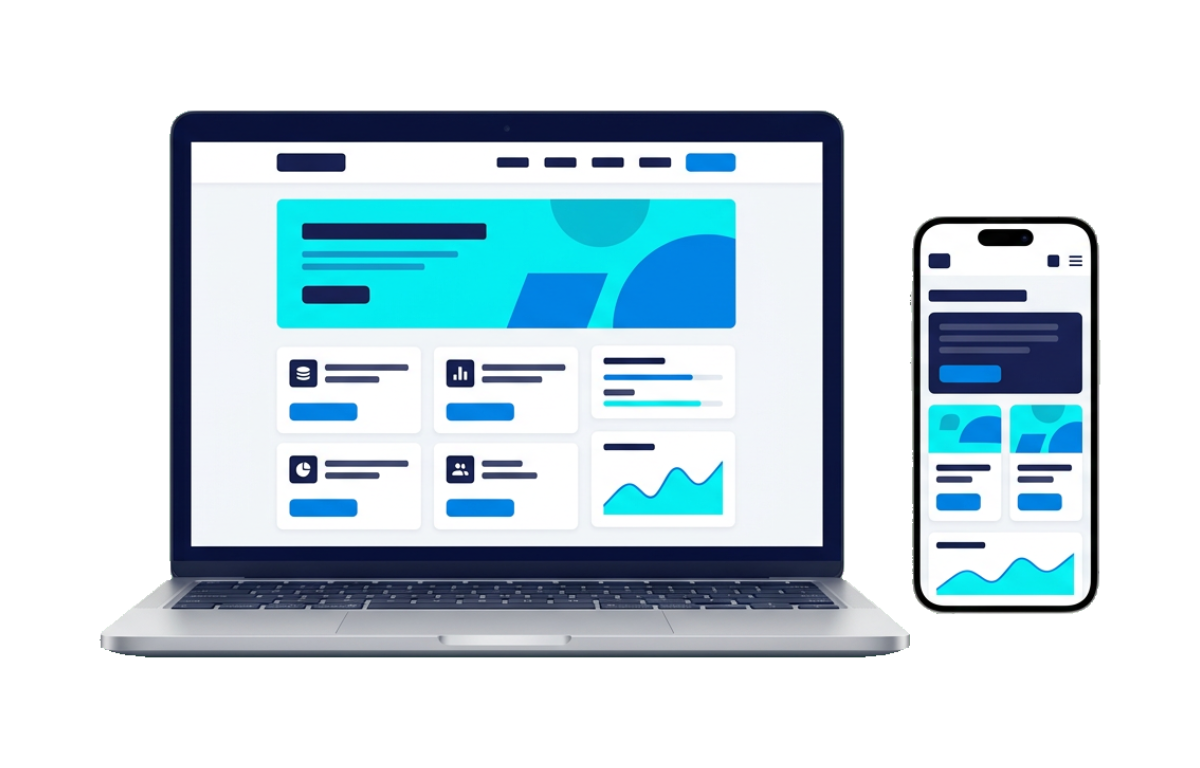
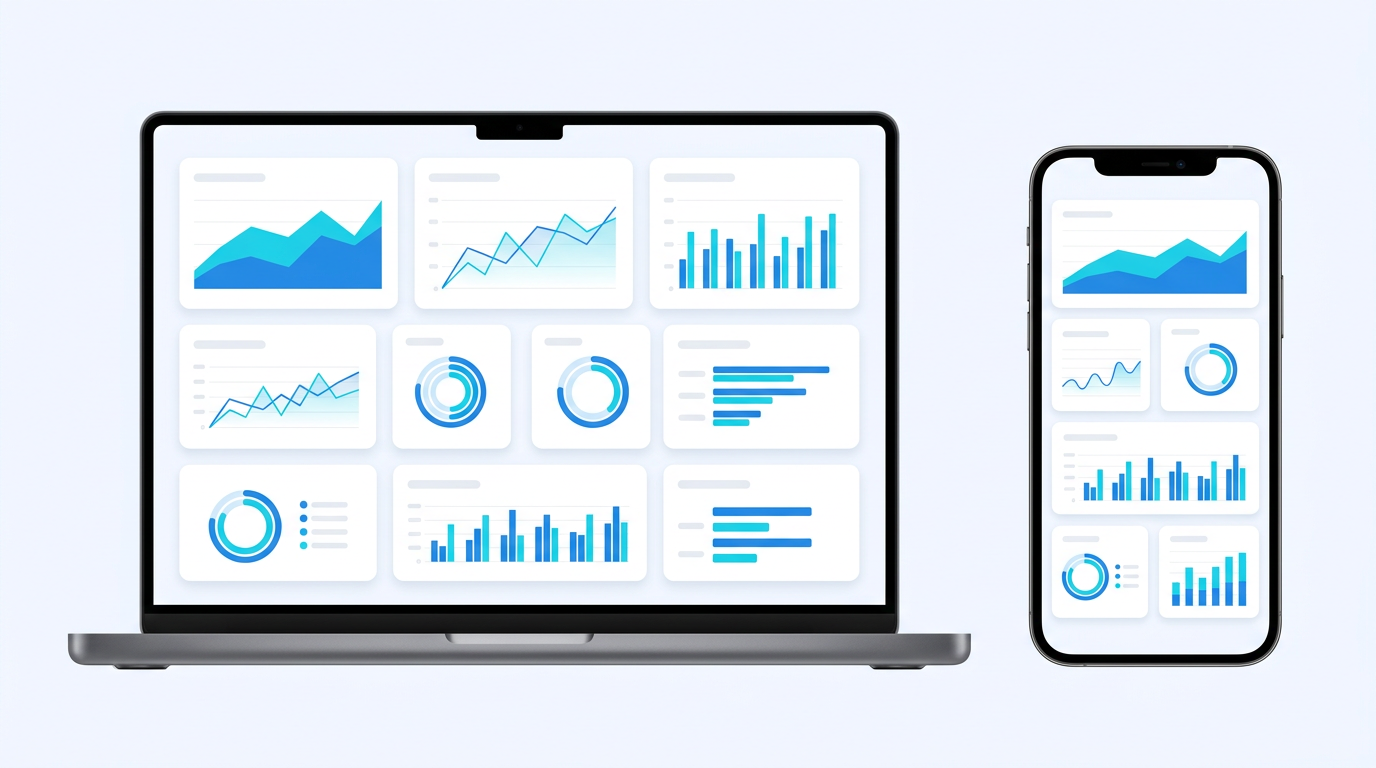
Refresh theme-aware hero artwork

diff --git a/app/hero-device-artwork.tsx b/app/hero-device-artwork.tsx
@@ -1,210 +1,25 @@
 import Image from 'next/image'
 
-type Palette = {
-  background: string
-  header: string
-  sidebar: string
-  card: string
-  border: string
-  ink: string
-  muted: string
-  accent: string
-  accentSoft: string
-  cyan: string
+type HeroDeviceArtworkProps = {
+  dark: boolean
+  rtl: boolean
 }
 
-const lightPalette: Palette = {
-  background: '#F6F8FC',
-  header: '#FFFFFF',
-  sidebar: '#F0F3F8',
-  card: '#FFFFFF',
-  border: '#E3E9F2',
-  ink: '#18233B',
-  muted: '#718099',
-  accent: '#176FE8',
-  accentSoft: '#E9F2FF',
-  cyan: '#00AFC1',
-}
-
-const darkPalette: Palette = {
-  background: '#0B1220',
-  header: '#111A2B',
-  sidebar: '#101A2C',
-  card: '#141F33',
-  border: '#28364D',
-  ink: '#F4F7FC',
-  muted: '#9AAAC1',
-  accent: '#2788F5',
-  accentSoft: '#172D49',
-  cyan: '#22D3DC',
-}
-
-function LaptopDashboard({ palette }: { palette: Palette }) {
-  const metrics = [
-    { label: 'Projects', value: '50+', detail: 'delivered' },
-    { label: 'Clients', value: '45', detail: 'served' },
-    { label: 'Experience', value: '6+', detail: 'years' },
-  ]
-  const chartPoints = [
-    { x: 150, y: 326, label: 'Websites' },
-    { x: 295, y: 283, label: 'Mobile' },
-    { x: 438, y: 302, label: 'UX / UI' },
-    { x: 585, y: 237, label: 'AI' },
-  ]
-
-  return (
-    <>
-      <rect width="640" height="410" fill={palette.background} />
-      <rect width="640" height="38" fill={palette.header} />
-      <circle cx="19" cy="19" r="7" fill={palette.accent} />
-      <path d="M16 19h6M19 16v6" stroke="#FFFFFF" strokeWidth="1.5" strokeLinecap="round" />
-      <text x="32" y="24" fill={palette.ink} fontFamily="Montserrat,Arial,sans-serif" fontSize="19" fontWeight="700">SperaCode</text>
-      <text x="151" y="23" fill={palette.muted} fontFamily="Montserrat,Arial,sans-serif" fontSize="8" fontWeight="600">OVERVIEW</text>
-      <rect x="526" y="9" width="101" height="20" rx="10" fill={palette.accentSoft} />
-      <circle cx="539" cy="19" r="3" fill={palette.cyan} />
-      <text x="547" y="22" fill={palette.accent} fontFamily="Montserrat,Arial,sans-serif" fontSize="7" fontWeight="700">SUPPORT 24/7</text>
-
-      <rect y="38" width="98" height="372" fill={palette.sidebar} />
-      <rect x="10" y="55" width="78" height="27" rx="6" fill={palette.accentSoft} />
-      <circle cx="22" cy="68" r="4" fill={palette.accent} />
-      <text x="31" y="71" fill={palette.accent} fontFamily="Montserrat,Arial,sans-serif" fontSize="7" fontWeight="700">Overview</text>
-      <circle cx="22" cy="104" r="4" fill={palette.muted} opacity=".65" />
-      <text x="31" y="107" fill={palette.muted} fontFamily="Montserrat,Arial,sans-serif" fontSize="7">Projects</text>
-      <circle cx="22" cy="132" r="4" fill={palette.muted} opacity=".65" />
-      <text x="31" y="135" fill={palette.muted} fontFamily="Montserrat,Arial,sans-serif" fontSize="7">Clients</text>
-      <circle cx="22" cy="160" r="4" fill={palette.muted} opacity=".65" />
-      <text x="31" y="163" fill={palette.muted} fontFamily="Montserrat,Arial,sans-serif" fontSize="7">Services</text>
-      <rect x="12" y="386" width="74" height="1" fill={palette.border} />
-      <text x="18" y="400" fill={palette.muted} fontFamily="Montserrat,Arial,sans-serif" fontSize="6">WEB · MOBILE · AI</text>
-
-      <text x="112" y="62" fill={palette.ink} fontFamily="Montserrat,Arial,sans-serif" fontSize="18" fontWeight="700">Company overview</text>
-      <text x="112" y="79" fill={palette.muted} fontFamily="Montserrat,Arial,sans-serif" fontSize="7">SperaCode digital products</text>
-      {metrics.map((metric, index) => {
-        const x = 112 + index * 168
-        return (
-          <g key={metric.label}>
-            <rect x={x} y="94" width="158" height="71" rx="8" fill={palette.card} stroke={palette.border} />
-            <text x={x + 12} y="111" fill={palette.muted} fontFamily="Montserrat,Arial,sans-serif" fontSize="7" fontWeight="600">{metric.label}</text>
-            <text x={x + 12} y="143" fill={palette.ink} fontFamily="Montserrat,Arial,sans-serif" fontSize="28" fontWeight="700">{metric.value}</text>
-            <text x={x + 63} y="142" fill={palette.muted} fontFamily="Montserrat,Arial,sans-serif" fontSize="7">{metric.detail}</text>
-            <rect x={x + 12} y="152" width="30" height="3" rx="1.5" fill={index === 1 ? palette.cyan : palette.accent} opacity=".8" />
-          </g>
-        )
-      })}
-      <rect x="108" y="176" width="516" height="216" rx="9" fill={palette.card} stroke={palette.border} />
-      <text x="124" y="198" fill={palette.ink} fontFamily="Montserrat,Arial,sans-serif" fontSize="11" fontWeight="700">SperaCode solutions</text>
-      <text x="124" y="212" fill={palette.muted} fontFamily="Montserrat,Arial,sans-serif" fontSize="7">Websites · mobile apps · product design</text>
-      <rect x="519" y="186" width="88" height="18" rx="9" fill={palette.accentSoft} />
-      <circle cx="531" cy="195" r="3" fill={palette.cyan} />
-      <text x="540" y="198" fill={palette.accent} fontFamily="Montserrat,Arial,sans-serif" fontSize="6.5" fontWeight="700">OUR EXPERTISE</text>
-      <line x1="132" y1="242" x2="607" y2="242" stroke={palette.border} strokeWidth="1" />
-      <line x1="132" y1="274" x2="607" y2="274" stroke={palette.border} strokeWidth="1" />
-      <line x1="132" y1="306" x2="607" y2="306" stroke={palette.border} strokeWidth="1" />
-      <line x1="132" y1="338" x2="607" y2="338" stroke={palette.border} strokeWidth="1" />
-      <path d="M150 326 C198 309 246 286 295 283 C345 279 389 309 438 302 C488 295 535 253 585 237" fill="none" stroke={palette.accent} strokeWidth="3" strokeLinecap="round" />
-      <path d="M150 326 C198 309 246 286 295 283 C345 279 389 309 438 302 C488 295 535 253 585 237 L585 338 L150 338 Z" fill={palette.accent} opacity=".08" />
-      {chartPoints.map((point, index) => (
-        <g key={point.label}>
-          <circle cx={point.x} cy={point.y} r="5" fill={palette.card} stroke={index === 1 ? palette.cyan : palette.accent} strokeWidth="2.5" />
-          <text x={point.x} y="359" textAnchor="middle" fill={palette.muted} fontFamily="Montserrat,Arial,sans-serif" fontSize="6.5">{point.label}</text>
-        </g>
-      ))}
-    </>
-  )
-}
-
-function MobileDashboard({ palette }: { palette: Palette }) {
-  return (
-    <>
-      <rect width="180" height="440" fill={palette.background} />
-      <rect x="61" y="7" width="58" height="15" rx="8" fill="#080D17" />
-      <circle cx="111" cy="14.5" r="2" fill="#273247" />
-      <circle cx="17" cy="39" r="7" fill={palette.accent} />
-      <path d="M14 39h6M17 36v6" stroke="#FFFFFF" strokeWidth="1.4" strokeLinecap="round" />
-      <text x="29" y="43" fill={palette.ink} fontFamily="Montserrat,Arial,sans-serif" fontSize="14" fontWeight="700">SperaCode</text>
-      <path d="M157 36h10M157 40h10M157 44h10" stroke={palette.muted} strokeWidth="1.5" strokeLinecap="round" />
-      <text x="14" y="70" fill={palette.ink} fontFamily="Montserrat,Arial,sans-serif" fontSize="11" fontWeight="700">Company overview</text>
-      <text x="14" y="83" fill={palette.muted} fontFamily="Montserrat,Arial,sans-serif" fontSize="6.5">A quick look at SperaCode</text>
-
-      <rect x="12" y="94" width="156" height="74" rx="9" fill={palette.card} stroke={palette.border} />
-      <text x="23" y="113" fill={palette.muted} fontFamily="Montserrat,Arial,sans-serif" fontSize="7" fontWeight="600">Projects delivered</text>
-      <text x="23" y="145" fill={palette.ink} fontFamily="Montserrat,Arial,sans-serif" fontSize="27" fontWeight="700">50+</text>
-      <rect x="110" y="128" width="45" height="24" rx="7" fill={palette.accentSoft} />
-      <path d="M119 144l8-8 6 5 11-10" fill="none" stroke={palette.accent} strokeWidth="2" strokeLinecap="round" strokeLinejoin="round" />
-
-      <rect x="12" y="178" width="74" height="68" rx="8" fill={palette.card} stroke={palette.border} />
-      <text x="21" y="196" fill={palette.muted} fontFamily="Montserrat,Arial,sans-serif" fontSize="6.5">Clients</text>
-      <text x="21" y="226" fill={palette.ink} fontFamily="Montserrat,Arial,sans-serif" fontSize="20" fontWeight="700">45</text>
-      <rect x="94" y="178" width="74" height="68" rx="8" fill={palette.card} stroke={palette.border} />
-      <text x="103" y="196" fill={palette.muted} fontFamily="Montserrat,Arial,sans-serif" fontSize="6.5">Experience</text>
-      <text x="103" y="226" fill={palette.ink} fontFamily="Montserrat,Arial,sans-serif" fontSize="20" fontWeight="700">6+</text>
-      <text x="21" y="237" fill={palette.muted} fontFamily="Montserrat,Arial,sans-serif" fontSize="5.5">served</text>
-      <text x="103" y="237" fill={palette.muted} fontFamily="Montserrat,Arial,sans-serif" fontSize="5.5">years</text>
-
-      <rect x="12" y="256" width="156" height="103" rx="8" fill={palette.card} stroke={palette.border} />
-      <text x="22" y="275" fill={palette.ink} fontFamily="Montserrat,Arial,sans-serif" fontSize="7.5" fontWeight="700">Our services</text>
-      <rect x="22" y="286" width="62" height="24" rx="6" fill={palette.accentSoft} />
-      <text x="30" y="301" fill={palette.accent} fontFamily="Montserrat,Arial,sans-serif" fontSize="6" fontWeight="600">Websites</text>
-      <rect x="90" y="286" width="66" height="24" rx="6" fill={palette.accentSoft} />
-      <text x="98" y="301" fill={palette.accent} fontFamily="Montserrat,Arial,sans-serif" fontSize="6" fontWeight="600">Mobile apps</text>
-      <rect x="22" y="318" width="62" height="24" rx="6" fill={palette.accentSoft} />
-      <text x="30" y="333" fill={palette.accent} fontFamily="Montserrat,Arial,sans-serif" fontSize="6" fontWeight="600">AI solutions</text>
-      <text x="98" y="333" fill={palette.muted} fontFamily="Montserrat,Arial,sans-serif" fontSize="6">UI / UX</text>
-
-      <rect x="12" y="369" width="156" height="48" rx="8" fill={palette.accentSoft} />
-      <circle cx="27" cy="393" r="5" fill={palette.cyan} />
-      <text x="39" y="389" fill={palette.ink} fontFamily="Montserrat,Arial,sans-serif" fontSize="7" fontWeight="600">Support</text>
-      <text x="39" y="403" fill={palette.muted} fontFamily="Montserrat,Arial,sans-serif" fontSize="6">Here when you need us</text>
-      <text x="151" y="398" textAnchor="end" fill={palette.accent} fontFamily="Montserrat,Arial,sans-serif" fontSize="10" fontWeight="700">24/7</text>
-      <rect x="67" y="430" width="46" height="3" rx="1.5" fill={palette.ink} opacity=".35" />
-    </>
-  )
-}
-
-export function HeroDeviceArtwork({ dark, rtl }: { dark: boolean; rtl: boolean }) {
-  const palette = dark ? darkPalette : lightPalette
-  const laptop = dark
-    ? { x: 158, y: 127, width: 655, height: 423 }
-    : { x: 190, y: 142, width: 633, height: 405 }
-  const phone = dark
-    ? { x: 902, y: 151, width: 181, height: 456 }
-    : { x: 928, y: 224, width: 166, height: 382 }
-  const laptopClip = dark ? 'speracode-laptop-dark' : 'speracode-laptop-light'
-  const phoneClip = dark ? 'speracode-phone-dark' : 'speracode-phone-light'
-
+export function HeroDeviceArtwork({ dark, rtl }: HeroDeviceArtworkProps) {
   return (
     <div className="hero-device-stage">
       <Image
         src={dark ? '/hero-devices-dark.png' : '/hero-devices-light.png'}
         alt={rtl
-          ? 'لابتوب وموبايل يعرضان لوحة بيانات SperaCode: أكثر من 50 مشروعًا و45 عميلًا و6 سنوات خبرة'
-          : 'Laptop and phone showing SperaCode metrics: 50+ projects, 45 clients, and 6+ years of experience'}
-        width={1200}
+          ? 'تصميم توضيحي لحاسوب محمول وهاتف يعرضان لوحة تحكم رقمية'
+          : 'Illustration of a laptop and phone displaying a digital dashboard'}
+        width={1376}
         height={768}
         sizes="(max-width: 760px) 340px, 500px"
+        quality={90}
         priority
         className="hero-image"
       />
-      <svg className="hero-screen-overlay" viewBox="0 0 1200 768" aria-hidden="true" focusable="false">
-        <defs>
-          <clipPath id={laptopClip} clipPathUnits="userSpaceOnUse">
-            <rect x={laptop.x} y={laptop.y} width={laptop.width} height={laptop.height} rx="5" />
-          </clipPath>
-          <clipPath id={phoneClip} clipPathUnits="userSpaceOnUse">
-            <rect x={phone.x} y={phone.y} width={phone.width} height={phone.height} rx="19" />
-          </clipPath>
-        </defs>
-        <g clipPath={`url(#${laptopClip})`}>
-          <g transform={`translate(${laptop.x} ${laptop.y}) scale(${laptop.width / 640} ${laptop.height / 410})`}>
-            <LaptopDashboard palette={palette} />
-          </g>
-        </g>
-        <g clipPath={`url(#${phoneClip})`}>
-          <g transform={`translate(${phone.x} ${phone.y}) scale(${phone.width / 180} ${phone.height / 440})`}>
-            <MobileDashboard palette={palette} />
-          </g>
-        </g>
-      </svg>
     </div>
   )
 }

diff --git a/app/projects/projects-gallery.tsx b/app/projects/projects-gallery.tsx
@@ -20,6 +20,7 @@ export default function ProjectsGallery() {
     const saved = localStorage.getItem('speracode-theme')
     const isDark = saved ? saved === 'dark' : window.matchMedia('(prefers-color-scheme: dark)').matches
     setDark(isDark)
+    document.documentElement.classList.toggle('dark', isDark)
     const onScroll = () => setScrolled(window.scrollY > 16)
     window.addEventListener('scroll', onScroll, { passive: true })
     const observer = new IntersectionObserver((entries) => entries.forEach((entry) => {
@@ -36,9 +37,9 @@ export default function ProjectsGallery() {
   }
 
   return <div className={`site projects-page ${dark ? 'theme-dark' : ''}`} dir="rtl">
-    <header className={`navbar${scrolled ? ' scrolled' : ''}`}><div className="container nav-inner"><SperaLogo/><nav className="desktop-nav" aria-label="التنقل الرئيسي"><Link href="/#home">الرئيسية</Link><Link href="/#services">خدماتنا</Link><Link href="/projects" aria-current="page">أعمالنا</Link><Link href="/#about">من نحن</Link><Link href="/contact">اتصل بنا</Link></nav><div className="nav-actions"><button className="icon-button" onClick={toggleTheme} aria-label={dark ? 'تفعيل الوضع الفاتح' : 'تفعيل الوضع الداكن'}>{dark ? <Sun/> : <Moon/>}</button><Link className="button button-primary nav-cta" href="/contact">ابدأ مشروعك<ArrowUpRight/></Link><button className="icon-button projects-menu-toggle" onClick={() => setMenuOpen(!menuOpen)} aria-label={menuOpen ? 'إغلاق القائمة' : 'فتح القائمة'}>{menuOpen ? <X/> : <Menu/>}</button></div></div>{menuOpen && <nav className="mobile-nav projects-mobile-nav"><Link onClick={() => setMenuOpen(false)} href="/">الرئيسية<ArrowUpRight/></Link><Link onClick={() => setMenuOpen(false)} href="/#services">خدماتنا<ArrowUpRight/></Link><Link onClick={() => setMenuOpen(false)} href="/projects">أعمالنا<ArrowUpRight/></Link><Link onClick={() => setMenuOpen(false)} href="/#about">من نحن<ArrowUpRight/></Link><Link onClick={() => setMenuOpen(false)} href="/contact">اتصل بنا<ArrowUpRight/></Link></nav>}</header>
+    <header className={`navbar${scrolled ? ' scrolled' : ''}`}><div className="container nav-inner"><SperaLogo/><nav className="desktop-nav" aria-label="التنقل الرئيسي"><Link href="/#home">الرئيسية</Link><Link href="/#services">خدماتنا</Link><Link href="/projects" aria-current="page">أعمالنا</Link><Link href="/#about">من نحن</Link><Link href="/contact">اتصل بنا</Link></nav><div className="nav-actions"><button type="button" className="icon-button" onClick={toggleTheme} aria-label={dark ? 'تفعيل الوضع الفاتح' : 'تفعيل الوضع الداكن'} aria-pressed={dark}>{dark ? <Sun/> : <Moon/>}</button><Link className="button button-primary nav-cta" href="/contact">ابدأ مشروعك<ArrowUpRight/></Link><button className="icon-button projects-menu-toggle" onClick={() => setMenuOpen(!menuOpen)} aria-label={menuOpen ? 'إغلاق القائمة' : 'فتح القائمة'}>{menuOpen ? <X/> : <Menu/>}</button></div></div>{menuOpen && <nav className="mobile-nav projects-mobile-nav"><Link onClick={() => setMenuOpen(false)} href="/">الرئيسية<ArrowUpRight/></Link><Link onClick={() => setMenuOpen(false)} href="/#services">خدماتنا<ArrowUpRight/></Link><Link onClick={() => setMenuOpen(false)} href="/projects">أعمالنا<ArrowUpRight/></Link><Link onClick={() => setMenuOpen(false)} href="/#about">من نحن<ArrowUpRight/></Link><Link onClick={() => setMenuOpen(false)} href="/contact">اتصل بنا<ArrowUpRight/></Link></nav>}</header>
     <main>
-      <section className="projects-hero"><div className="projects-hero-glow" aria-hidden="true"/><div className="container projects-hero-inner"><div className="projects-hero-layout"><div className="projects-hero-copy"><Link className="breadcrumb" href="/">الرئيسية <ArrowLeft aria-hidden="true"/> أعمالنا</Link><span className="section-kicker">SPERACODE / PORTFOLIO</span><h1>أفكار تتحوّل إلى<br/><em>تجارب رقمية</em></h1><p>اكتشف نماذج من تصاميمنا وحلولنا الرقمية. كل تجربة صُمّمت لتجمع بين هدف واضح وتنفيذ متقن.</p><div className="projects-hero-actions"><Link className="button button-white" href="/contact">ابدأ مشروعك<ArrowUpRight aria-hidden="true"/></Link><a className="button button-ghost" href="#gallery">استكشف المشاريع<ArrowDown aria-hidden="true"/></a></div><div className="projects-hero-stats"><span><b>{String(projects.length).padStart(2, '0')}</b> مشروعًا</span><span><b>{String(categories.length - 1).padStart(2, '0')}</b> تصنيفات</span><span><b>01</b> روابط مباشرة</span></div></div><div className="projects-hero-visual"><PageHeroVisual dark rtl/></div></div></div></section>
+      <section className="projects-hero"><div className="projects-hero-glow" aria-hidden="true"/><div className="container projects-hero-inner"><div className="projects-hero-layout"><div className="projects-hero-copy"><Link className="breadcrumb" href="/">الرئيسية <ArrowLeft aria-hidden="true"/> أعمالنا</Link><span className="section-kicker">SPERACODE / PORTFOLIO</span><h1>أفكار تتحوّل إلى<br/><em>تجارب رقمية</em></h1><p>اكتشف نماذج من تصاميمنا وحلولنا الرقمية. كل تجربة صُمّمت لتجمع بين هدف واضح وتنفيذ متقن.</p><div className="projects-hero-actions"><Link className="button button-white" href="/contact">ابدأ مشروعك<ArrowUpRight aria-hidden="true"/></Link><a className="button button-ghost" href="#gallery">استكشف المشاريع<ArrowDown aria-hidden="true"/></a></div><div className="projects-hero-stats"><span><b>{String(projects.length).padStart(2, '0')}</b> مشروعًا</span><span><b>{String(categories.length - 1).padStart(2, '0')}</b> تصنيفات</span><span><b>01</b> روابط مباشرة</span></div></div><div className="projects-hero-visual"><PageHeroVisual dark={dark} rtl/></div></div></div></section>
       <section className="section projects-gallery-section" id="gallery"><div className="container"><div className="portfolio-intro" data-reveal><div><span className="section-kicker">مختاراتنا</span><h2>المشاريع السابقة</h2><p>مجموعة من المواقع والمنصات وأنظمة الأعمال، مع رابط مباشر لاستكشاف كل مشروع.</p></div><span className="portfolio-count">{String(filtered.length).padStart(2, '0')} <span>مشاريع</span></span></div><div className="portfolio-filters" role="group" aria-label="تصفية المشاريع">{categories.map((category) => <button className={active === category ? 'portfolio-filter active' : 'portfolio-filter'} key={category} onClick={() => setActive(category)} aria-pressed={active === category}>{category}</button>)}</div><div className="portfolio-grid">{filtered.map((project, index) => <article className="portfolio-card" data-reveal key={project.title} style={{'--reveal-delay': `${Math.min(index, 4) * 75}ms`} as React.CSSProperties}><a className="portfolio-image" href={project.demoUrl} target="_blank" rel="noopener noreferrer" aria-label={`فتح الديمو الخاص بمشروع ${project.title} في نافذة جديدة`}><Image src={project.image} alt={project.imageAlt} width={1200} height={800} /><span className="portfolio-image-overlay"><span>شاهد الديمو <ArrowUpRight aria-hidden="true"/></span></span><span className="portfolio-type">{project.arCategory}</span></a><div className="portfolio-card-content"><div className="portfolio-card-heading"><span className="portfolio-index">{String(index + 1).padStart(2, '0')}</span><h3>{project.title}</h3><ArrowUpRight/></div><p>{project.description}</p><div className="portfolio-tags">{project.tags.map(tag => <span key={tag}>{tag}</span>)}</div><a className="portfolio-demo-link" href={project.demoUrl} target="_blank" rel="noopener noreferrer">عرض الديمو<ArrowUpRight aria-hidden="true"/></a></div></article>)}</div><div className="portfolio-note"><Check/> صور الأغلفة توضيحية وتعرّف بنشاط كل مشروع، والروابط تفتح المواقع أو الديموهات الفعلية. بعض البوابات تبدأ بصفحة تسجيل الدخول.</div></div></section>
       <section className="portfolio-cta"><div className="container"><div className="portfolio-cta-card" data-reveal><span className="section-kicker">خطوتك القادمة</span><h2>هل لديك فكرة لمشروع؟</h2><p>ابدأ محادثة معنا، ودعنا نبني تجربة رقمية تناسب أهدافك.</p><Link className="button button-primary" href="/contact">ابدأ مشروعك<ArrowUpRight/></Link></div></div></section>
     </main>

diff --git a/app/globals.css b/app/globals.css
@@ -78,8 +78,8 @@ html[lang="ar"] body{line-height:1.9}.portfolio-image img{width:100%;height:100%
 .hero-art::before,.hero-art::after{content:'';position:absolute;top:50%;left:50%;z-index:0;pointer-events:none;border-radius:50%}
 .hero-art::before{width:84%;height:76%;border:1px solid color-mix(in srgb,var(--blue) 30%,transparent);border-inline-start-color:transparent;animation:hero-orbit 26s linear infinite}
 .hero-art::after{width:92%;height:58%;border:1px dashed color-mix(in srgb,var(--cyan) 32%,transparent);animation:hero-orbit 34s linear infinite reverse}
-.hero-device-stage{position:relative;grid-column:1/-1;grid-row:2;justify-self:center;display:block;width:min(100%,500px);aspect-ratio:1200/768;margin-inline:auto;isolation:isolate}
-.hero-image{position:absolute!important;inset:0!important;display:block;width:100%;height:100%;max-width:100%;z-index:1;object-fit:contain;margin:0;transform:none;filter:none!important;mix-blend-mode:normal!important;animation:hero-image-arrive .72s .1s var(--motion-easing) both;will-change:transform,opacity;opacity:1}
+.hero-device-stage{position:relative;grid-column:1/-1;grid-row:2;justify-self:center;display:block;width:min(100%,500px);aspect-ratio:1376/768;margin-inline:auto;isolation:isolate;overflow:hidden;border:1px solid #e3e8f2;border-radius:22px;background:#f7f9ff;box-shadow:0 24px 70px -44px #07101d66;transition:background .25s,border-color .25s,box-shadow .25s}.dark .hero-device-stage{border-color:#ffffff1a;background:#070d1a;box-shadow:0 30px 70px -42px #0009}
+.hero-image{position:absolute!important;inset:0!important;display:block;width:100%;height:100%;max-width:100%;z-index:1;object-fit:contain;margin:0;border-radius:inherit;transform:none;filter:none!important;mix-blend-mode:normal!important;animation:hero-image-arrive .72s .1s var(--motion-easing) both;will-change:transform,opacity;opacity:1}
 .hero-screen-overlay{position:absolute;inset:0;width:100%;height:100%;z-index:2;pointer-events:none;overflow:visible}
 .art-label,.art-status{position:relative;z-index:2;inset:auto!important;filter:none!important;backdrop-filter:none!important;-webkit-backdrop-filter:none!important;opacity:1;animation:label-arrive .56s .14s var(--motion-easing) both}
 .art-label{width:max-content;max-width:100%;min-width:0;padding:9px 10px;border-color:var(--border);background:var(--bg);box-shadow:var(--shadow);color:var(--muted)}
@@ -222,6 +222,23 @@ html[lang="ar"] body{line-height:1.9}.portfolio-image img{width:100%;height:100%
   .contact-hero-visual .hero-device-stage{width:min(100%,360px)}
   .contact-hero-aside{display:none}
 }
+
+.site:not(.theme-dark) .projects-hero{
+  background:radial-gradient(ellipse at 88% 18%,#0bb8d91c,transparent 34%),linear-gradient(125deg,#f7f9ff,#edf3ff 66%,#e7f7fb);
+  color:#0a1120;
+}
+.site:not(.theme-dark) .projects-hero-glow{background:radial-gradient(ellipse,#2865eb20,transparent 64%)}
+.site:not(.theme-dark) .projects-hero .breadcrumb{color:#53627a}
+.site:not(.theme-dark) .projects-hero .section-kicker{color:#2865eb}
+.site:not(.theme-dark) .projects-hero h1{color:#0a1120}
+.site:not(.theme-dark) .projects-hero h1 em{color:#087f9c}
+.site:not(.theme-dark) .projects-hero-inner>p{color:#5b6478}
+.site:not(.theme-dark) .projects-hero-stats span{color:#5b6478}
+.site:not(.theme-dark) .projects-hero-stats b{color:#0a1120}
+.site:not(.theme-dark) .projects-hero .button-white{background:#2865eb;color:#fff;box-shadow:0 8px 22px #2865eb30}
+.site:not(.theme-dark) .projects-hero .button-ghost{border-color:#2865eb45;background:#ffffffa8;color:#0a1120}
+.site:not(.theme-dark) .projects-hero .button-ghost:hover{border-color:#2865eb;background:#fff;color:#0a1120}
+
 
 @media(max-width:420px){
   .projects-hero-inner{padding-block:30px 38px}
